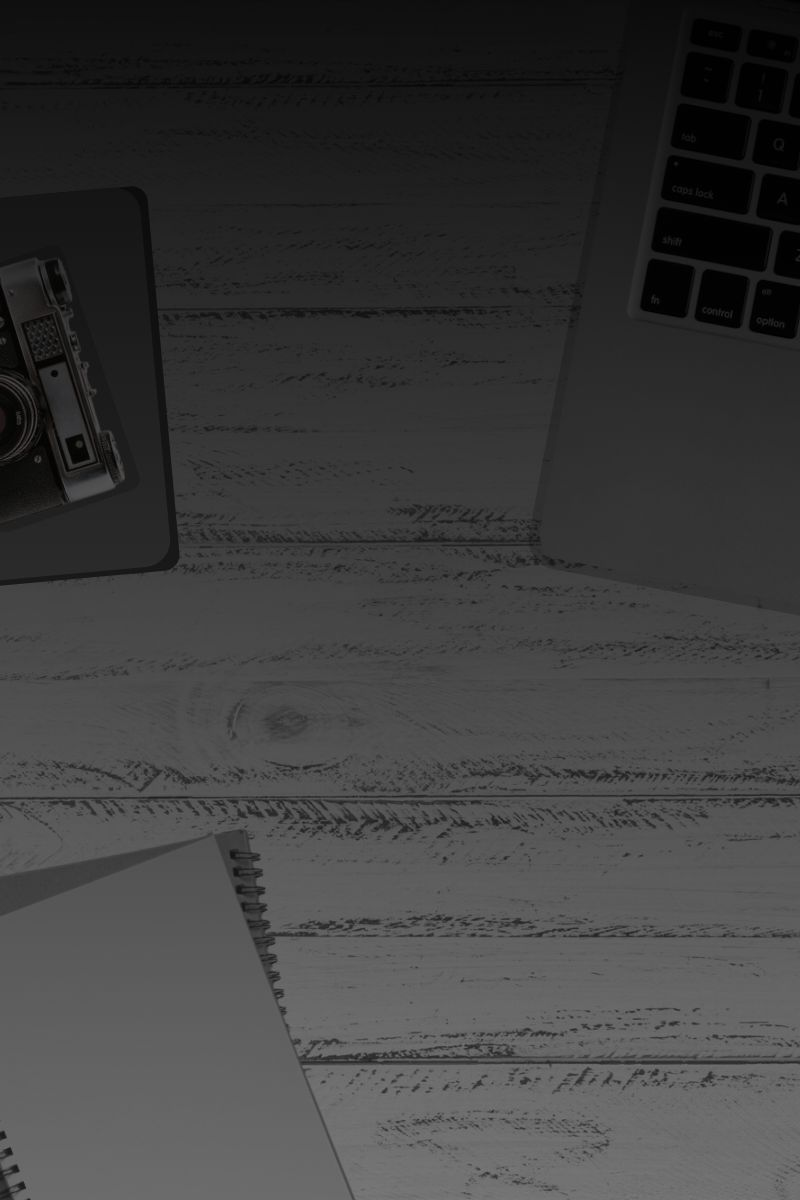
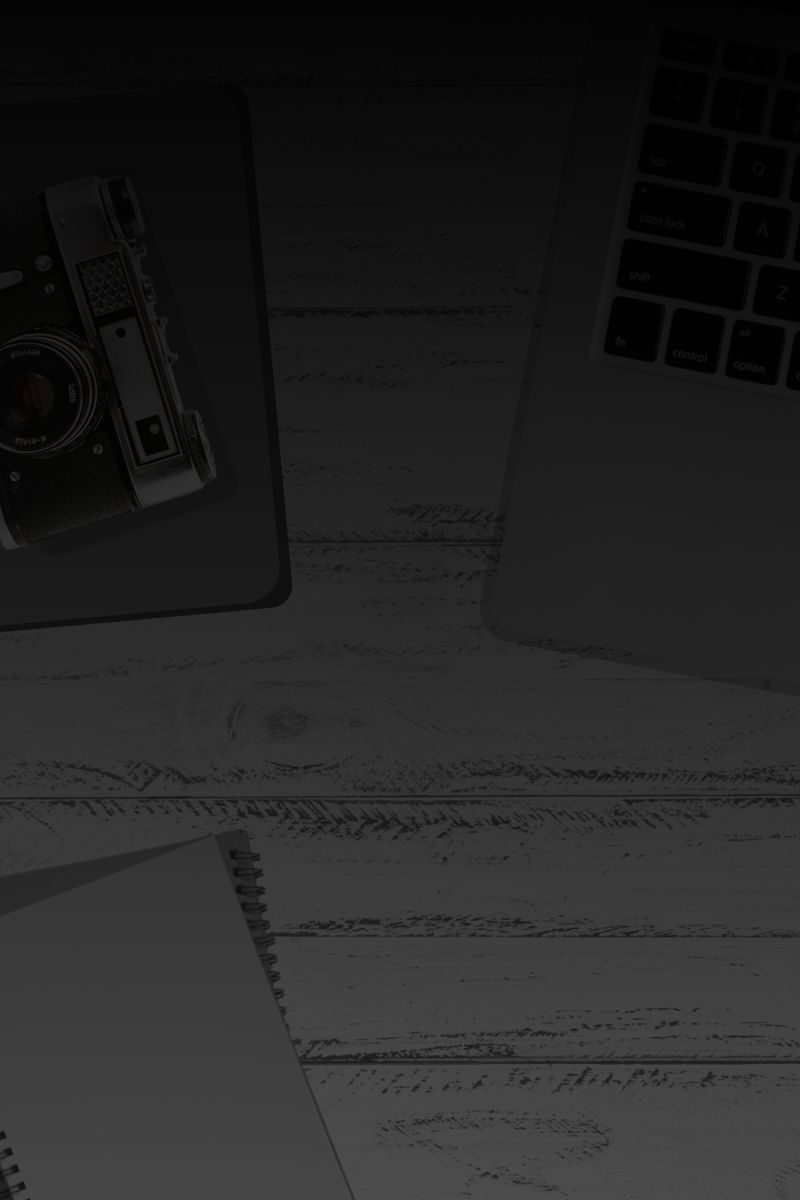
header

diff --git a/cliente/src/components/Header.jsx b/cliente/src/components/Header.jsx
@@ -2,14 +2,14 @@ import React from 'react';
 
 const Header = () => {
   return (
-        <div class="bg-[url('/bg1.jpeg')] bg-bottom bg-cover h-screen w-screen pt-20">
-                <p className='font-normal tracking-[.03em] text-white opacity-60 text-center text-lg drop-shadow-md w-60 m-auto leading-5'>¿Buscas un sitio web que represente a tu negocio?</p>
-                <img src="./marca.png" alt="Logo Modo Digital." className='w-60 mx-auto mt-16' />
-                <h1 className='w-96 mt-1 mx-auto text-center text-white opacity-85 font-montserrat font-bold text-5xl tracking-tighter leading-10 drop-shadow-md'>Diseño web <br/>profesional</h1>
-                <p className='w-11/12 mt-16 mx-auto text-pretty text-center text-white opacity-80 font-montserrat text-xl drop-shadow-md leading-5'>Suma prestigio, jerarquia y posicionamiento para tu negocio con un software hecho a tu medida.</p>
+        <div class="bg-[url('/bg1.jpeg')] bg-bottom bg-cover min-h-screen w-screen pt-20">
+                <p className='tracking-[.05em] text-white opacity-80 text-center text-xl font-semibold drop-shadow-md w-80 m-auto leading-6'>¿Buscas un sitio web que represente a tu negocio?</p>
+                <img src="./marca.png" alt="Logo Modo Digital." className='w-80 mx-auto mt-20' />
+                <h1 className='w-96 mt-1 mx-auto text-center text-white opacity-95 font-montserrat font-bold text-5xl tracking-tight leading-10 drop-shadow-md'>Diseño web <br/>profesional</h1>
+                <p className='w-11/12 mt-16 mx-auto text-pretty text-center text-white opacity-80 font-montserrat text-2xl drop-shadow-md leading-6'>Sumale posicionamiento, jerarquia y prestigio a tu negocio con un software hecho a su medida.</p>
                 <div class="flex justify-center mt-12">
                      <a href="#contacto">
-                        <button class="bg-red-800 text-white opacity-70 py-2 px-4 rounded-md shadow-2xl shadow-red-600 leading-0 tracking-tighter">Comencemos</button>
+                        <button class="bg-gradient-to-r to-blue-500 from-green-500 text-white opacity-70 py-2 px-4 rounded-md shadow-2xl shadow-white leading-0 tracking-tighter">Comencemos</button>
                     </a>
                 </div>
         </div>
